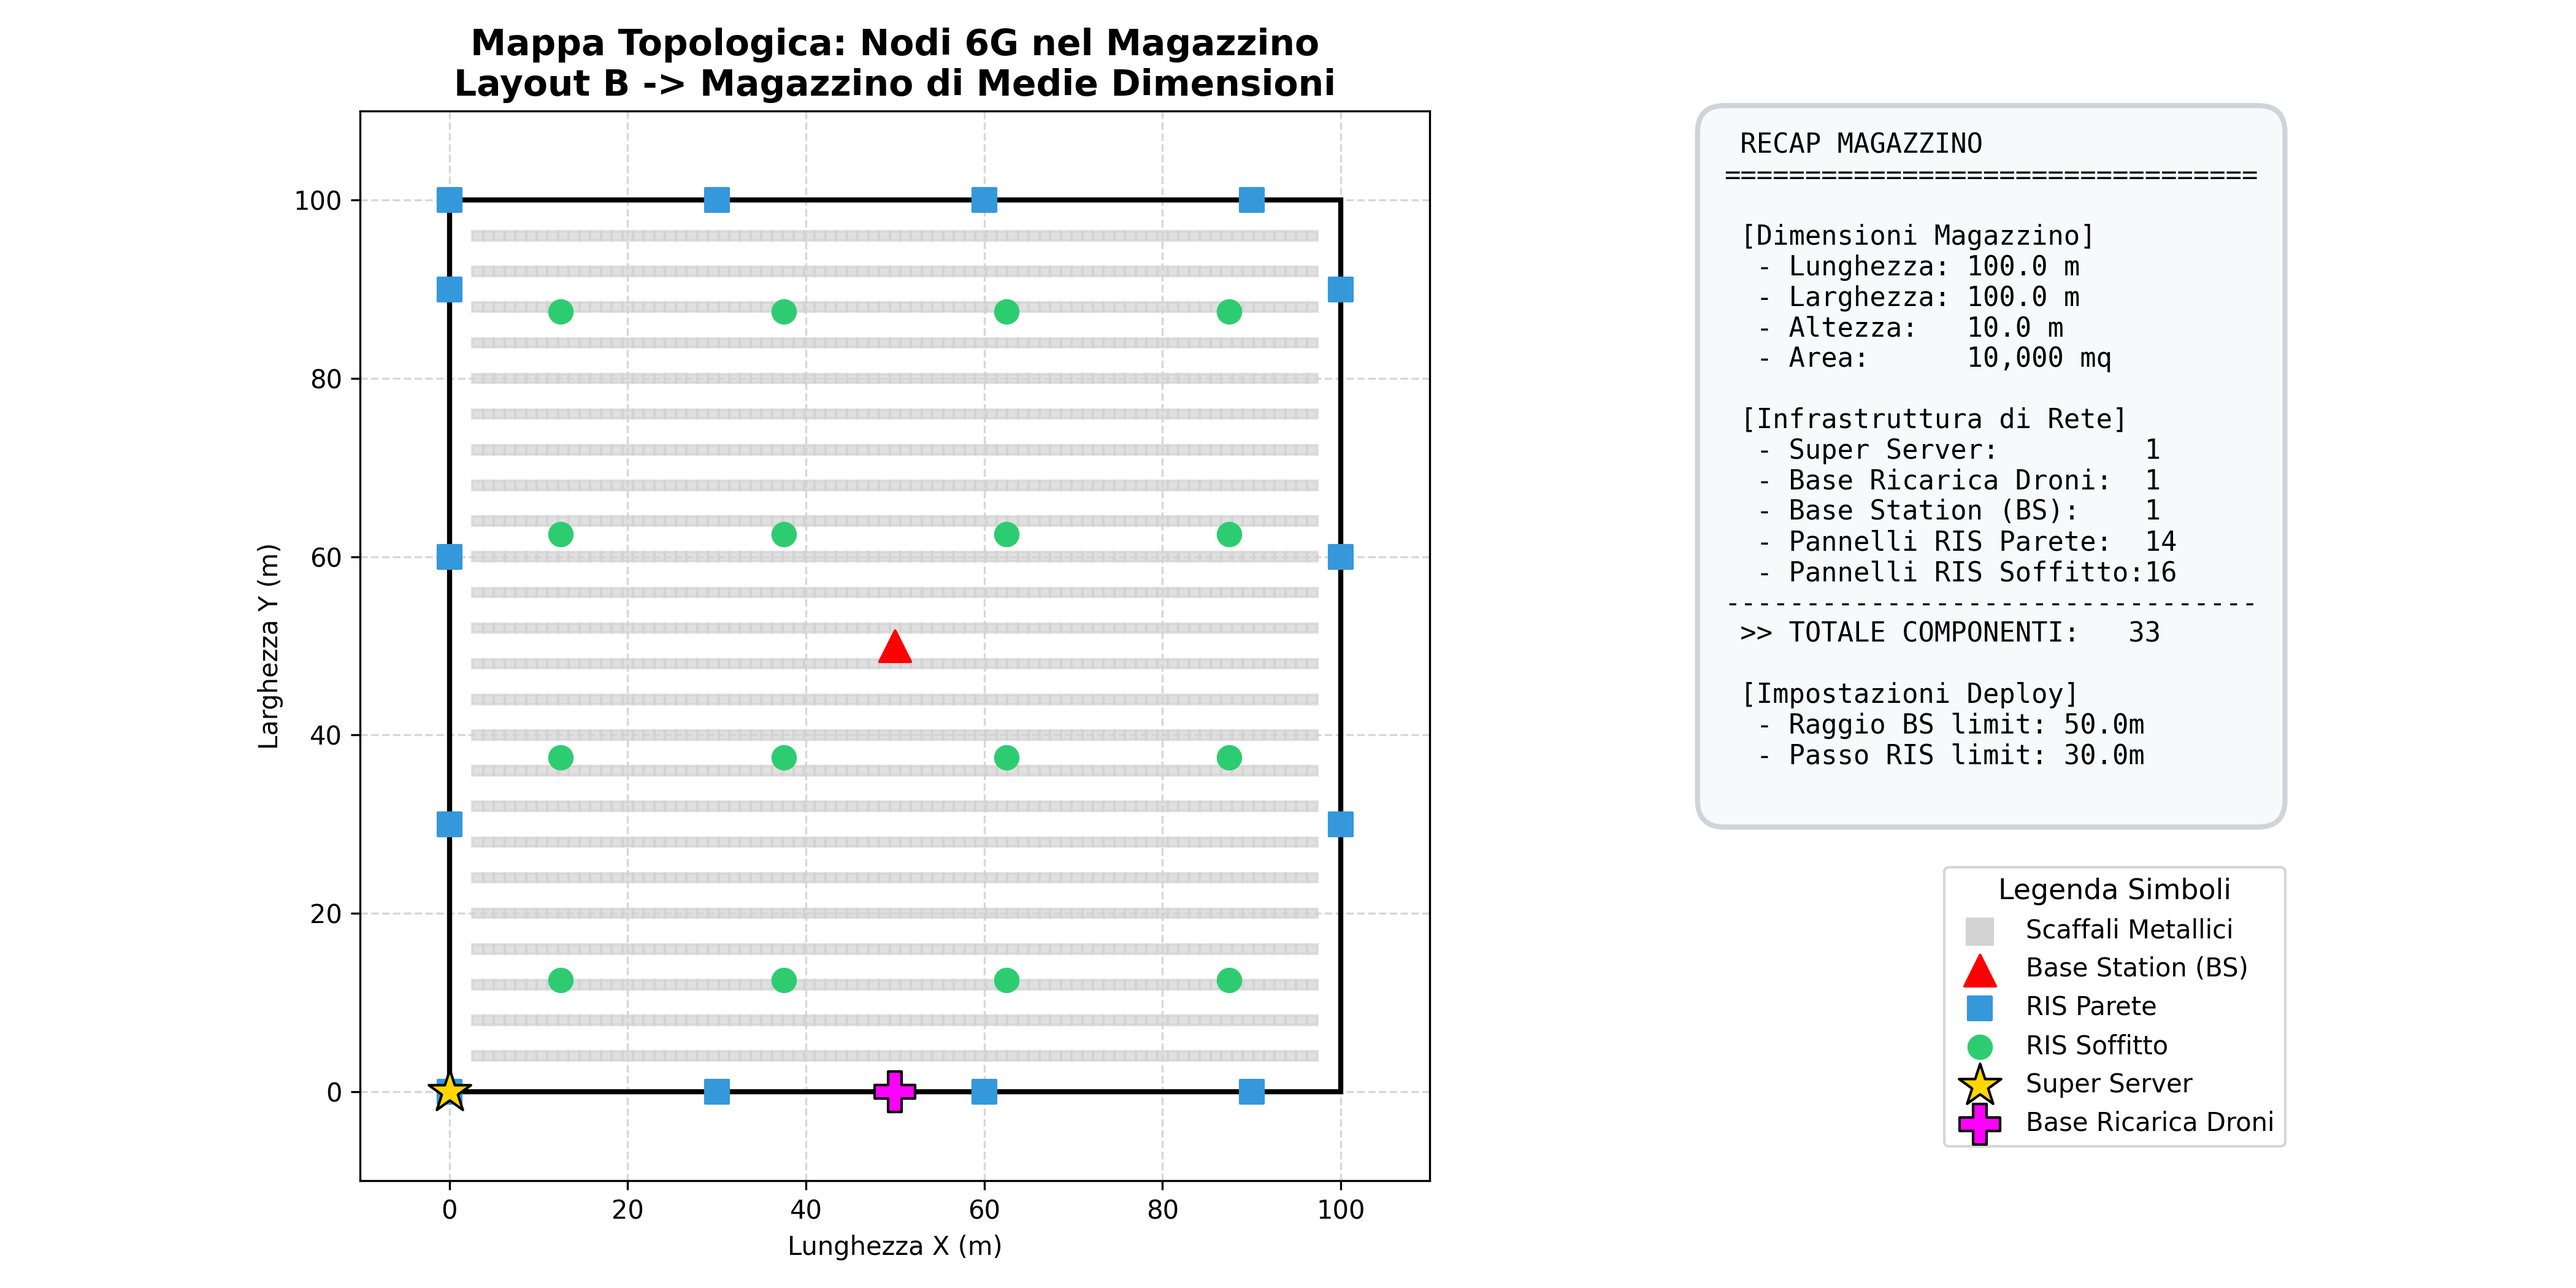
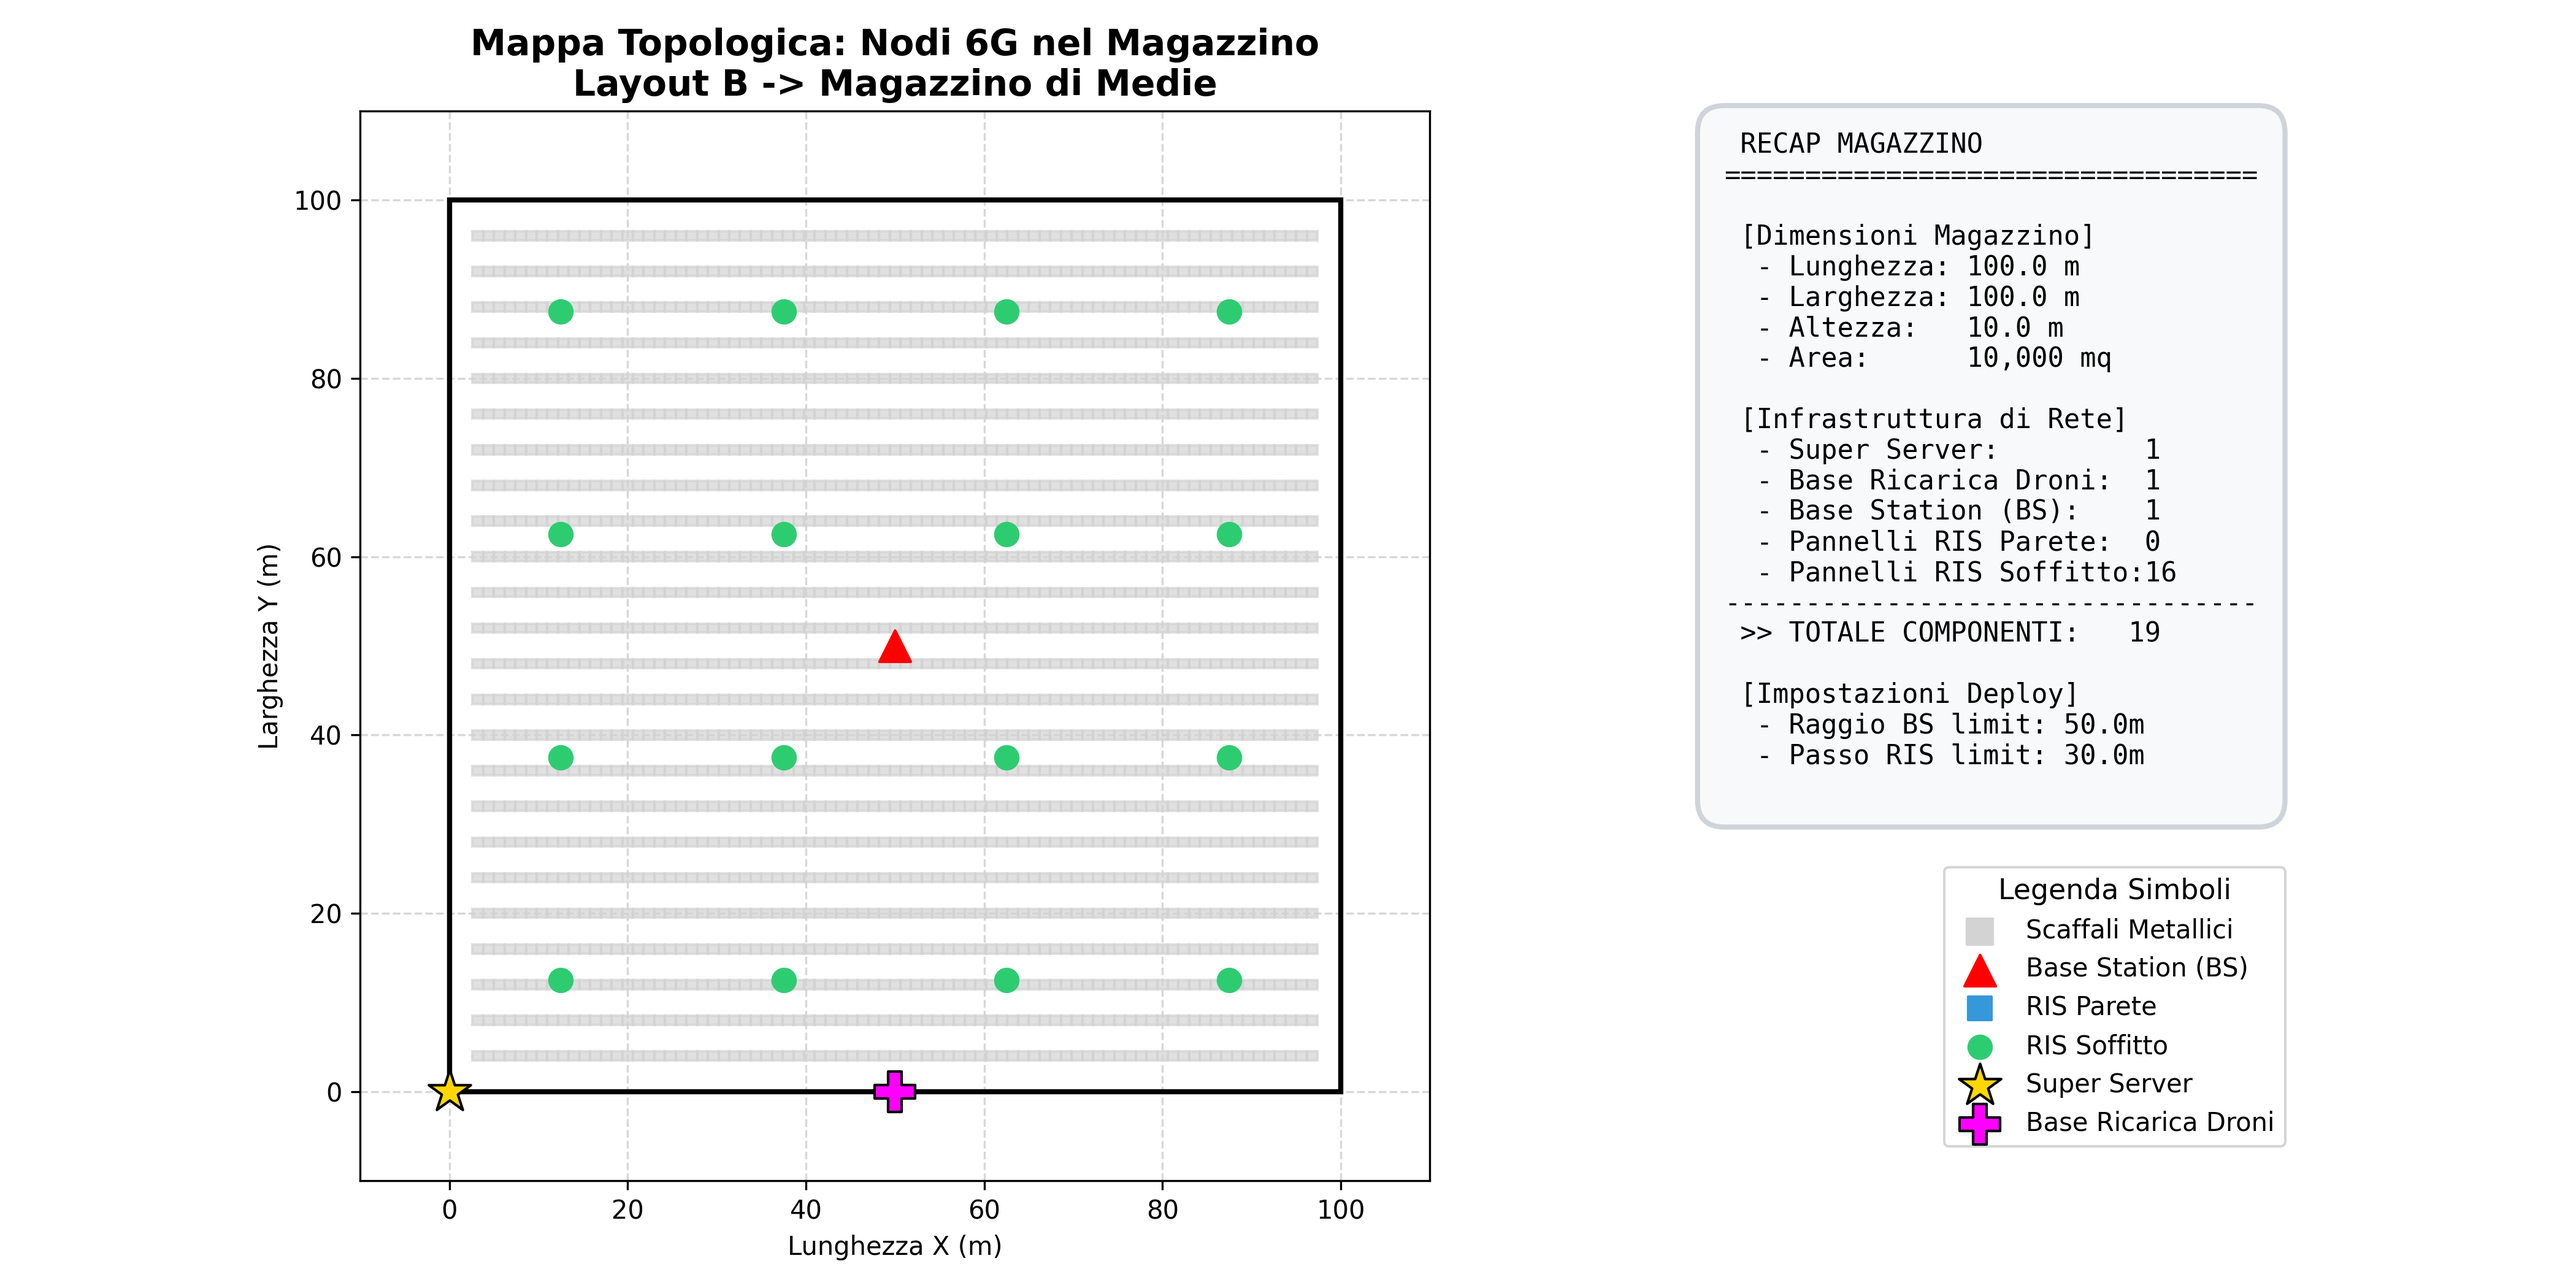
STEP 10 - RISOLUZIONE PROBLEMI E VISUALIZZAZIONE DEI GRAFICI

diff --git a/config.py b/config.py
@@ -21,36 +21,21 @@ RUMORE_BIANCO = -100.0       # Potenza del rumore di fondo nel magazzino logisti
 #Parametri Cinematici dei Droni
 V_DRONE = 3.0              # Velocità di volo costante del Drone in m/s (≈ 10.8 km/h)
 DT = 0.1                   # Passo temporale della simulazione (1 step = 0.1 secondi)
+MIN_DISTANZA_ANTICOLLISIONE = 1.5  # Distanza minima (metri) tra due droni nello stesso tubo di volo.
 
 #Parametri della Batteria drone
 BATTERY_MAX = 100.0        # Capacità massima della batteria del drone (%)
 BATTERY_RTH_THRESHOLD = 20.0 # Soglia RTH (Return To Home): il drone torna alla base se scende sotto questo valore (%)
 CONSUMO_BATTERIA_DT = 0.05 # Percentuale batteria consumata ad ogni step temporale  
 
-# Modalità di Volo dei Droni e Sicurezza
-# Il drone può operare in due modalità distinte (ora scelte AUTOMATICAMENTE dal simulatore in base all'area):
-# 'FISSO'       = Magazzini Piccoli/Medi. Il drone vola sempre alla stessa altezza fissa nei corridoi.
-#                 Si alza/abbassa SOLO quando arriva allo scaffale target per raccogliere il pacco.
-# 'MULTILIVELLO'= Magazzini Grandi. Il drone vola su corridoi orizzontali a quote multiple (una per ogni livello mensola).
-
+# Modalità di Volo dei Droni e distanza minima di sicurezza
 Z_DRONE_FISSO = 1.0           # Altezza di crociera fissa per la modalità 'FISSO' (metri)
                                # (Generalmente il corridoio al primo livello del pavimento)
 
-# Anti-Collisione Droni
-# Regola UNIVERSALE (valida per FISSO e su ogni singolo livello del MULTILIVELLO). 
-# È fondamentale che il Controller garantisca una distanza minima orizzontale
-# tra un drone e l'altro per evitare sovrapposizioni fisiche nella stessa corsia.
-# Questo vincolo è critico per calcolare la saturazione del magazzino.
-MIN_DISTANZA_ANTICOLLISIONE = 1.5  # Distanza minima (metri) tra due droni nello stesso tubo di volo.
-                                   # Il Controller in devices.py non assegnerà a un drone
-                                   # una posizione target se un altro drone è già entro questa distanza.
 
 # ------------------------------------------
 # PARAMETRI BS-RIS
 # ------------------------------------------
-
-# La Base Station (BS) è in modalità ibrida: ricevitore + RIS
-BS_E_ANCHE_RIS = True      # Flag: True = la BS può operare anche come nodo RIS
 
 # Consumi Energetici dei Pannelli RIS (Watt)
 P_SLEEP = 0.5              # Consumo a riposo: pannello in ascolto ma inattivo (W)
@@ -63,6 +48,9 @@ Z_BS_OFFSET_DAL_SOFFITTO = 0.3     # BS a soffitto: offset (in metri) sotto l'in
 Z_RIS_SOFFITTO_OFFSET = 0.1        # RIS a soffitto: offset (in metri) sotto l'intradosso
 Z_RIS_PARETE_RAPPORTO_ALTEZZA = 0.5 # RIS a parete: frazione dell'altezza totale (0.5 = metà parete)
 
+# La Base Station (BS) è in modalità ibrida: ricevitore + RIS
+BS_E_ANCHE_RIS = True      # la BS può operare anche come nodo RIS
+
 #Abilitazione RIS per modalità di volo -> Controlla quali tipi di RIS vengono deployate in base alla modalità drone scelta.
 
 RIS_SOFFITTO_ABILITATA = True       # Sempre True: 1 RIS a soffitto per corridoio, per il tracking XY
@@ -70,8 +58,6 @@ RIS_PARETE_ABILITATA_FISSO = False  # In modalità FISSO la quota è nota → pa
 RIS_PARETE_ABILITATA_MULTILIVELLO = True # In MULTILIVELLO serve la parete per discriminare la quota Z
 
 # Ottimizzazione Copertura (minimizzare il numero di RIS/BS) 
-# Il sistema calcolerà il numero minimo di RIS/BS per coprire l'intera area del magazzino.
-# La logica: piazzo la prima RIS, calcolo la sua area coperta, piazzo la prossima dove la copertura finisce.
 COPERTURA_TARGET = 1.0             # Frazione dell'area da coprire (1.0 = 100%): obiettivo piena copertura
 SOGLIA_OVERLAP_RIS = 0.10          # Overlap massimo accettato tra due RIS adiacenti (10%).
                                    # Troppo overlap = RIS sprecate; troppo poco = buchi di copertura.
@@ -96,7 +82,6 @@ MARGINE_SICUREZZA_DRONE = 0.15 # Margine di sicurezza aggiuntivo sopra la mensol
 # Limiti Stress Test
 MAX_RIS_CALLS_PER_DT = 10  # Massimo numero di attivazioni RIS gestibili dal server in un singolo DT (0.1s)
                            # Superato questo limite -> la rete va in Breakdown (condizione di stop test)
-
 
 
 # ==========================================
@@ -236,8 +221,8 @@ class Magazzino:
                 id_ris += 1
 
         # Decisione Intelligente: Modalità di Volo
-        # Se il magazzino e' >= 10.000 mq, si attiva il MULTILIVELLO per gestire flotte grandi
-        if self.area_mq >= 10000:
+        # Se il magazzino e' > 10.000 mq (Caso C), si attiva il MULTILIVELLO per gestire flotte grandi
+        if self.area_mq > 10000:
             self.modalita_volo = 'MULTILIVELLO'
         else:
             self.modalita_volo = 'FISSO'
@@ -256,6 +241,15 @@ class Magazzino:
                 self.ris_parete.append({
                     'id': id_ris, 'tipo': 'parete_end',
                     'x': self.lunghezza, 'y': corridoio_y, 'z': z_ris_parete
+                })
+                id_ris += 1
+        
+        # Base Station (ibrida): Inietta i nodi BS nella lista ris_soffitto se attivato
+        if BS_E_ANCHE_RIS:
+            for bs in self.base_stations:
+                self.ris_soffitto.append({
+                    'id': id_ris, 'tipo': 'ibrida_bs',
+                    'x': bs['x'], 'y': bs['y'], 'z': bs['z']
                 })
                 id_ris += 1
         
@@ -1221,8 +1215,8 @@ class DeploymentPlanner:
                     })
 
         # 3. Deployment RIS a Parete (Lungo il perimetro)
-        # Solo in modalità MULTILIVELLO (>= 10.000 mq)
-        if self.area_mq >= 10000:
+        # Solo in modalità MULTILIVELLO (> 10.000 mq, es. Caso C)
+        if self.area_mq > 10000:
             passo_ris_parete = R_RIS * 2.0 # Es. 30 metri
             
             # Lato Inferiore (Y=0) e Superiore (Y=W_MAG)
